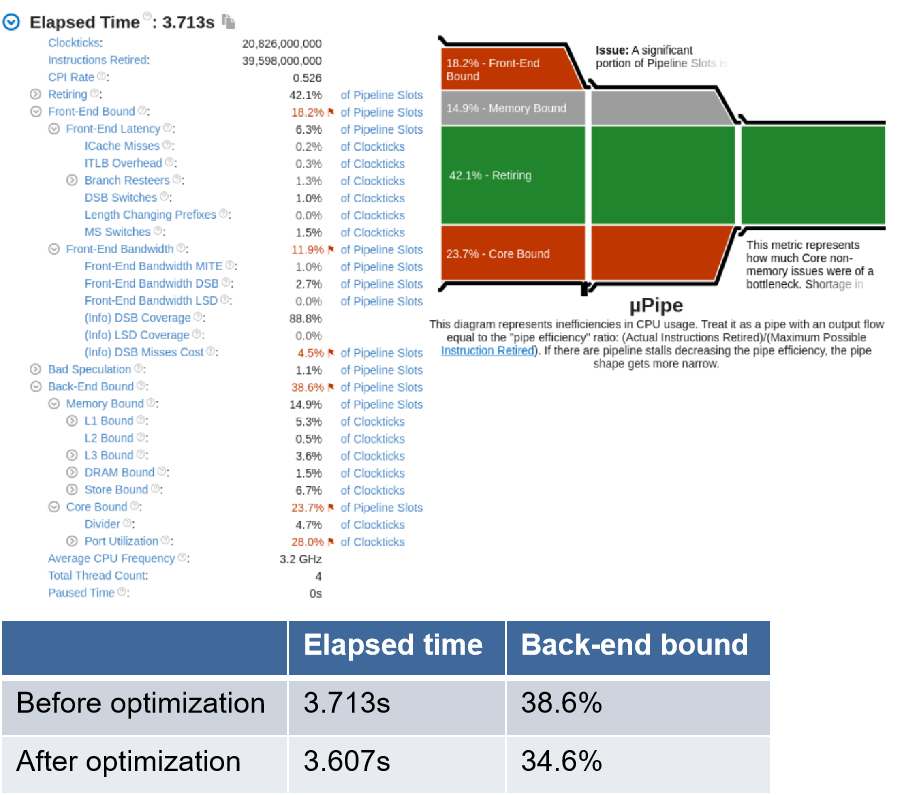
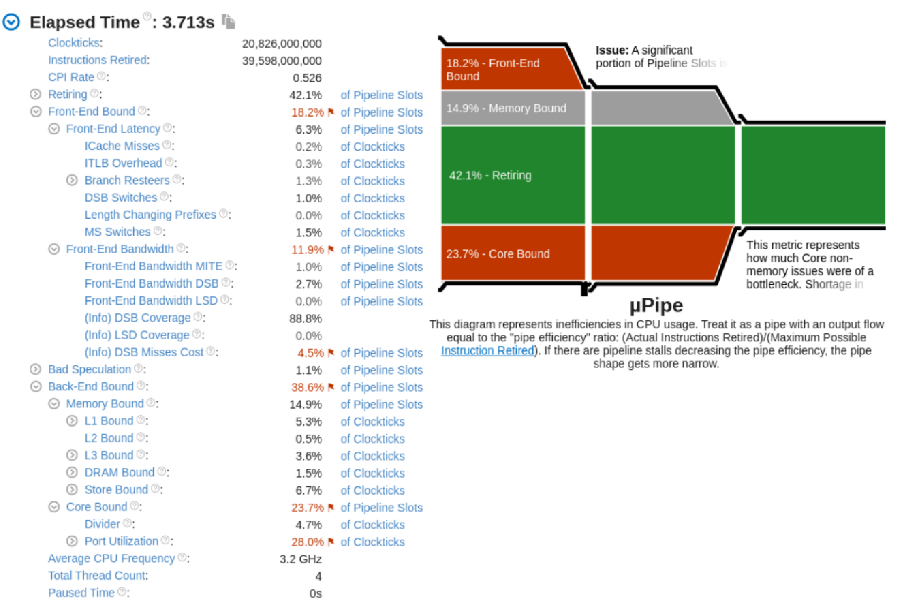
updated ASC WRF-Hydro part

diff --git a/_projects/2023-ASC22-23.md b/_projects/2023-ASC22-23.md
@@ -7,4 +7,61 @@ excerpt: "Led a team to optimize various applications, including numerical simul
 collection: projects
 ---
 
-This is an item in your portfolio. It can be have images or nice text. If you name the file .md, it will be parsed as markdown. If you name the file .html, it will be parsed as HTML. 
+**Gains:** This was my second time participating in an international high performance computing competition, and I was honored to serve as the **team leader**. I gained even more experience than I did as a participant—not only in professional areas such as preprocessing, power management, and server management, but also in **teamwork**. I learned how to motivate my team, and how to allocate resources based on each member’s interests and strengths.
+
+About the competition
+------
+
+ASC first releases some of the applications, allowing participants to prepare in advance. Then, during the offline competition, entirely new test cases and a mysterious new application are announced on site. 
+
+<figure style="text-align:center;">
+  <img src='/images/projects/ASC22-23-whole-photo.jpg' alt='ASC22-23 group photo' width='500' />
+  <figcaption style="text-align:center;">ASC22-23 group photo</figcaption>
+</figure>
+
+ASC22-23 was held offline at our university (USTC), and since it was the 10th anniversary of the competition, our team faced more pressure. However, this experience brought us closer together.
+
+We were asked to conduct and optimize the following applications: [WRF-Hydro](https://ral.ucar.edu/projects/wrf_hydro), [Yuan Large Language Model](https://github.com/Shawn-Inspur/Yuan-1.0), [DeePMD](https://github.com/deepmodeling/deepmd-kit), a mysterious application which is only revealed on site, and a newly given group competition (asks several teams to work together).
+
+The competition lasted for four days. During the first two days, we had to select suitable hardware and set up the servers on site. What made it even more exciting was that, due to the environmental protection and resource conservation, we were required to keep our server’s power consumption **below 3000W**. Since the event was held offline, the organizers could easily monitor power usage. If our program exceeded the 3000W power limit while running, an alarm would sound on site, and the result for that run would be invalidated.
+
+WRF-Hydro
+------
+
+This application adds a module to [Weather Research & Forecasting Model (WRF)](https://www.mmm.ucar.edu/models/wrf), enabling hydrometeorological forecasts, including flash flood prediction, regional hydroclimate impacts assessment, seasonal forecasting of water resources, and land-atmosphere coupling studies.
+
+WRF-Hydro overview             |  Preprocessing
+:-------------------------:|:-------------------------:
+<img src='/images/projects/ASC22-23-WRFHydro.png' width='400' />  |  <img src='/images/projects/ASC22-23-preprocess.png' width='400' />
+
+In the official website, all the provided datasets are too small (only cost less than one minute to run them). To get prepared for much larger test cases that will be provided on site, we decided to run preprocess progress of WRF-Hydro, to generate more test cases.
+
+We specified very large grid size (the range to simulate and perform prediction), and large simulation time. But the largest dataset we generated, can be run in 3 minutes.
+
+When the competition day arrived, the organizers provided us with a very large test case that required several hours to run. It was then that we realized our understanding of the program was not thorough enough; there was a configuration file that allowed us to specify the simulation time step (calculation frequency), which could significantly increase the computational workload.
+
+Prior to the offline competition, using our pre-generated larger dataset, we applied VTune to analyse the runtime performance of WRF-Hydro.
+There are several important indicators: front-end bound and back-end bound.
+Front-end bound is relavant to branchs, pre-fetches, etc.
+And back-end bound is relavant to FP ops, data-dependency, etc.
+We optimized compiler flags to enable function inline and vectorization, and also found the most-frequently-called function, studied the algorithm of it and optimized several lines.
+
+After all these strategies, we reduced back-end bound from 36.6% to 34.6%.
+
+<p align="center">
+  <img src="/images/projects/ASC22-23-VTune.png" width="400"/>
+</p>
+
+Power management
+------
+
+There are various methods to reduce power consumption:
+* BIOS
+  * Change CPU power state
+  * Disable hyper thread
+* Fan
+  * Limit power
+* CPU & GPU
+  * Limit power and frequency 
+  * Use less cores
+* Use a power monitor to adapt above strategies in real time
